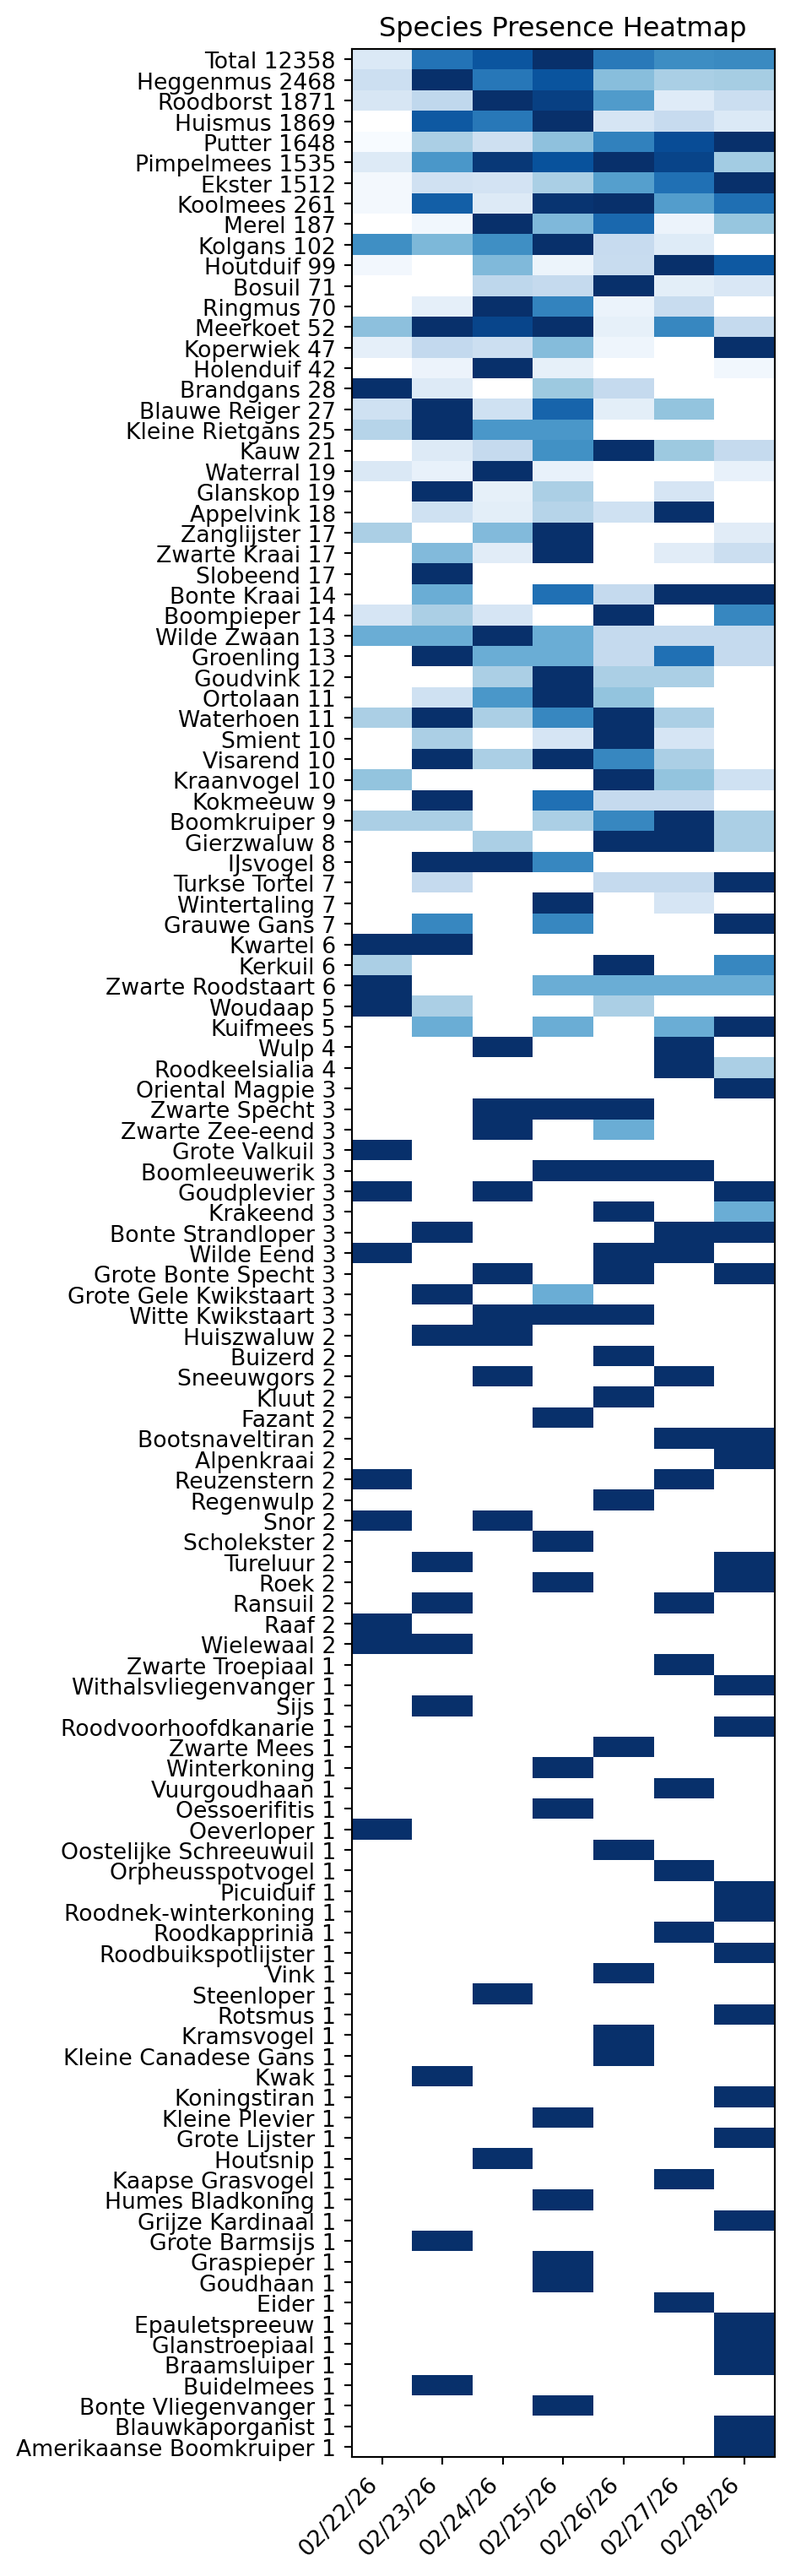
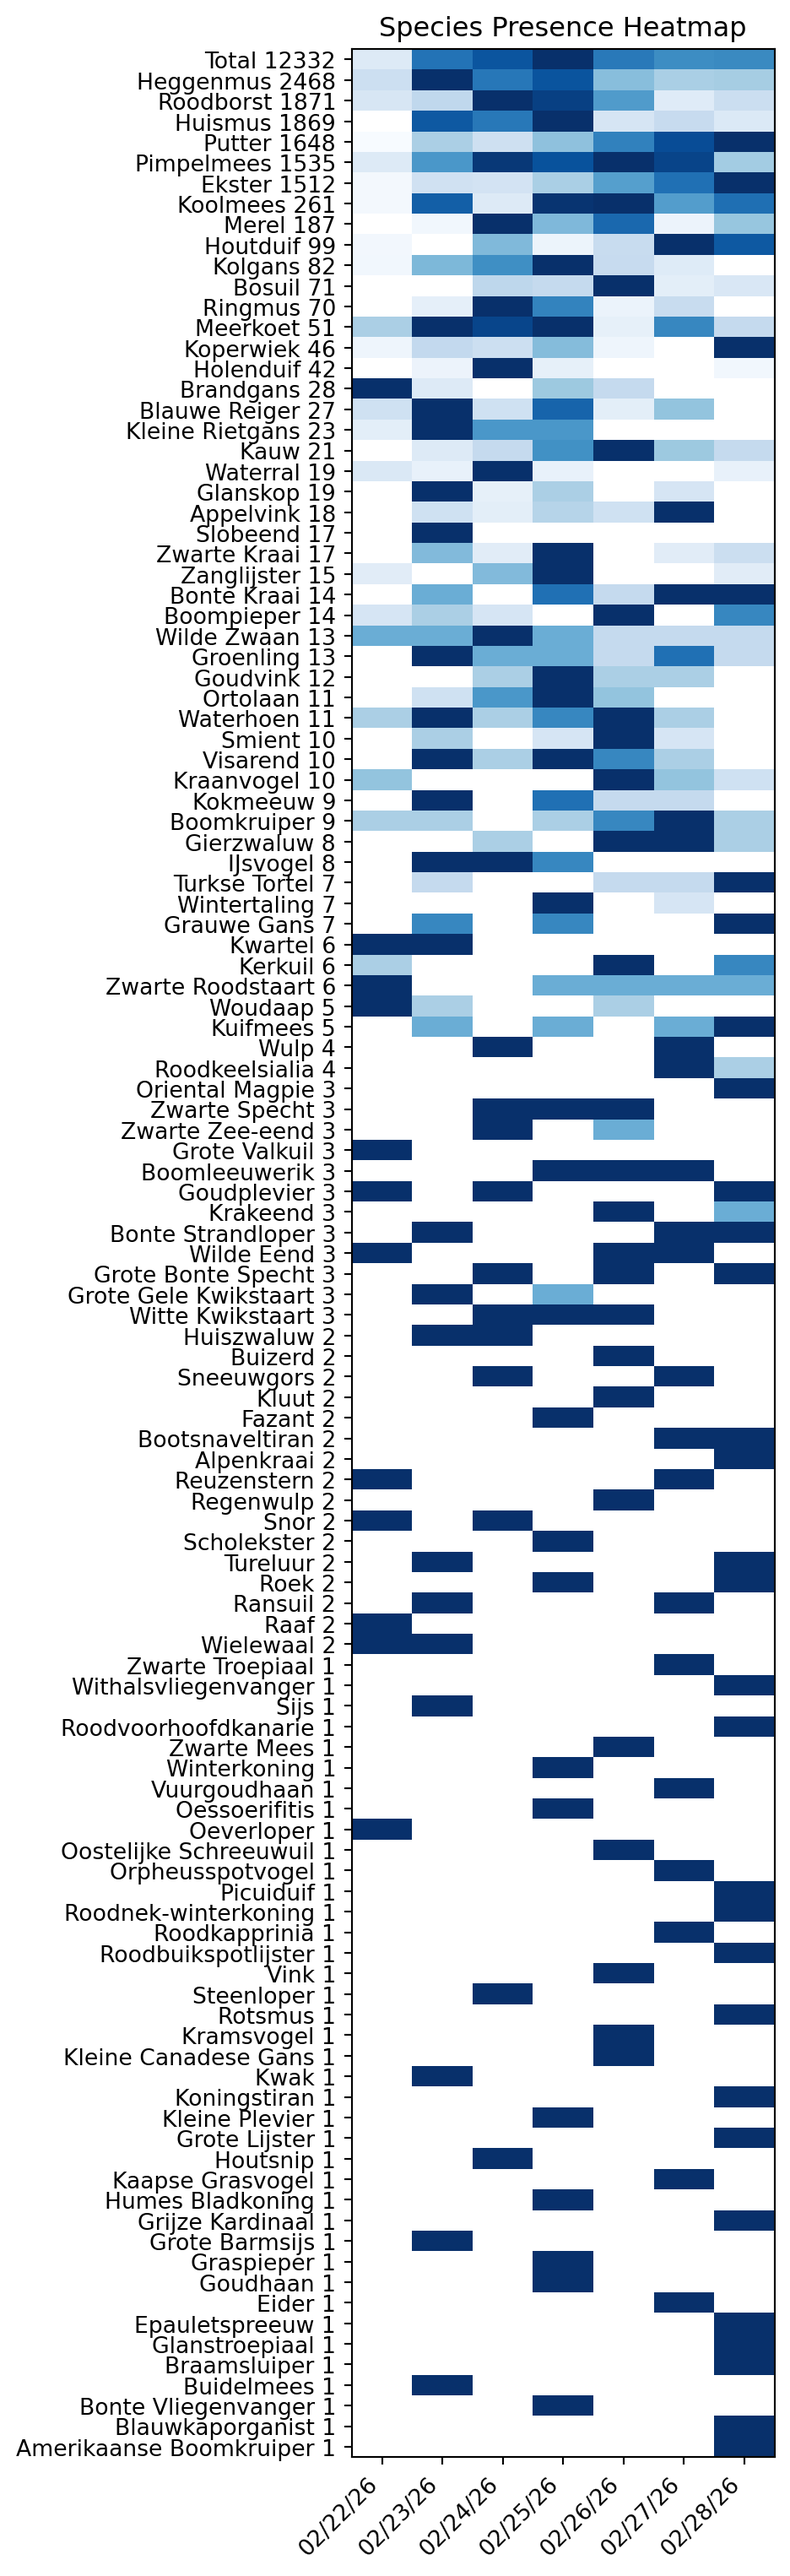
Built site for gh-pages

diff --git a/week_summary.html b/week_summary.html
@@ -145,7 +145,7 @@ ul.task-list li input[type="checkbox"] {
 </header>
 
 
-<div id="fbb32c4c" class="cell" data-execution_count="1">
+<div id="bad3f2ca" class="cell" data-execution_count="1">
 <div class="cell-output cell-output-stdout">
 <pre><code>Heggenmus — 2468
 Roodborst — 1871
@@ -155,23 +155,23 @@ Pimpelmees — 1535
 Ekster — 1512
 Koolmees — 261
 Merel — 187
-Kolgans — 102
 Houtduif — 99
+Kolgans — 82
 Bosuil — 71
 Ringmus — 70
-Meerkoet — 52
-Koperwiek — 47
+Meerkoet — 51
+Koperwiek — 46
 Holenduif — 42
 Brandgans — 28
 Blauwe Reiger — 27
-Kleine Rietgans — 25
+Kleine Rietgans — 23
 Kauw — 21
 Glanskop — 19
 Waterral — 19
 Appelvink — 18
-Zanglijster — 17
-Slobeend — 17
 Zwarte Kraai — 17
+Slobeend — 17
+Zanglijster — 15
 Boompieper — 14
 Bonte Kraai — 14
 Wilde Zwaan — 13

diff --git a/index.html b/index.html
@@ -145,9 +145,9 @@ ul.task-list li input[type="checkbox"] {
 </header>
 
 
-<div id="46951635" class="cell" data-execution_count="1">
+<div id="e3d3630f" class="cell" data-execution_count="1">
 <div class="cell-output cell-output-stdout">
-<pre><code>These are the last 50 observations, updated at 2026-02-28 23:01
+<pre><code>These are the last 50 observations, updated at 2026-03-01 00:01
 2026-02-28 22:46:30.381301 — Meerkoet (confidence: 0.86)
 2026-02-28 22:13:30.990771 — Meerkoet (confidence: 1.00)
 2026-02-28 22:10:22.228135 — Goudplevier (confidence: 0.79)

diff --git a/last_hour.html b/last_hour.html
@@ -145,7 +145,7 @@ ul.task-list li input[type="checkbox"] {
 </header>
 
 
-<div id="ca7ed951" class="cell" data-execution_count="1">
+<div id="8f211820" class="cell" data-execution_count="1">
 <div class="cell-output cell-output-stdout">
 <pre><code>No observations in the last hour</code></pre>
 </div>

diff --git a/stats.html b/stats.html
@@ -145,7 +145,7 @@ ul.task-list li input[type="checkbox"] {
 </header>
 
 
-<div id="d2ba9026" class="cell" data-execution_count="1">
+<div id="9767d22e" class="cell" data-execution_count="1">
 <div class="cell-output cell-output-stdout">
 <pre><code>Heggenmus — 2842
 Huismus — 2102

diff --git a/day_summary.html b/day_summary.html
@@ -145,7 +145,7 @@ ul.task-list li input[type="checkbox"] {
 </header>
 
 
-<div id="811ca033" class="cell" data-execution_count="1">
+<div id="e9d038dc" class="cell" data-execution_count="1">
 <div class="cell-output cell-output-stdout">
 <pre><code>Ekster — 495
 Putter — 468
